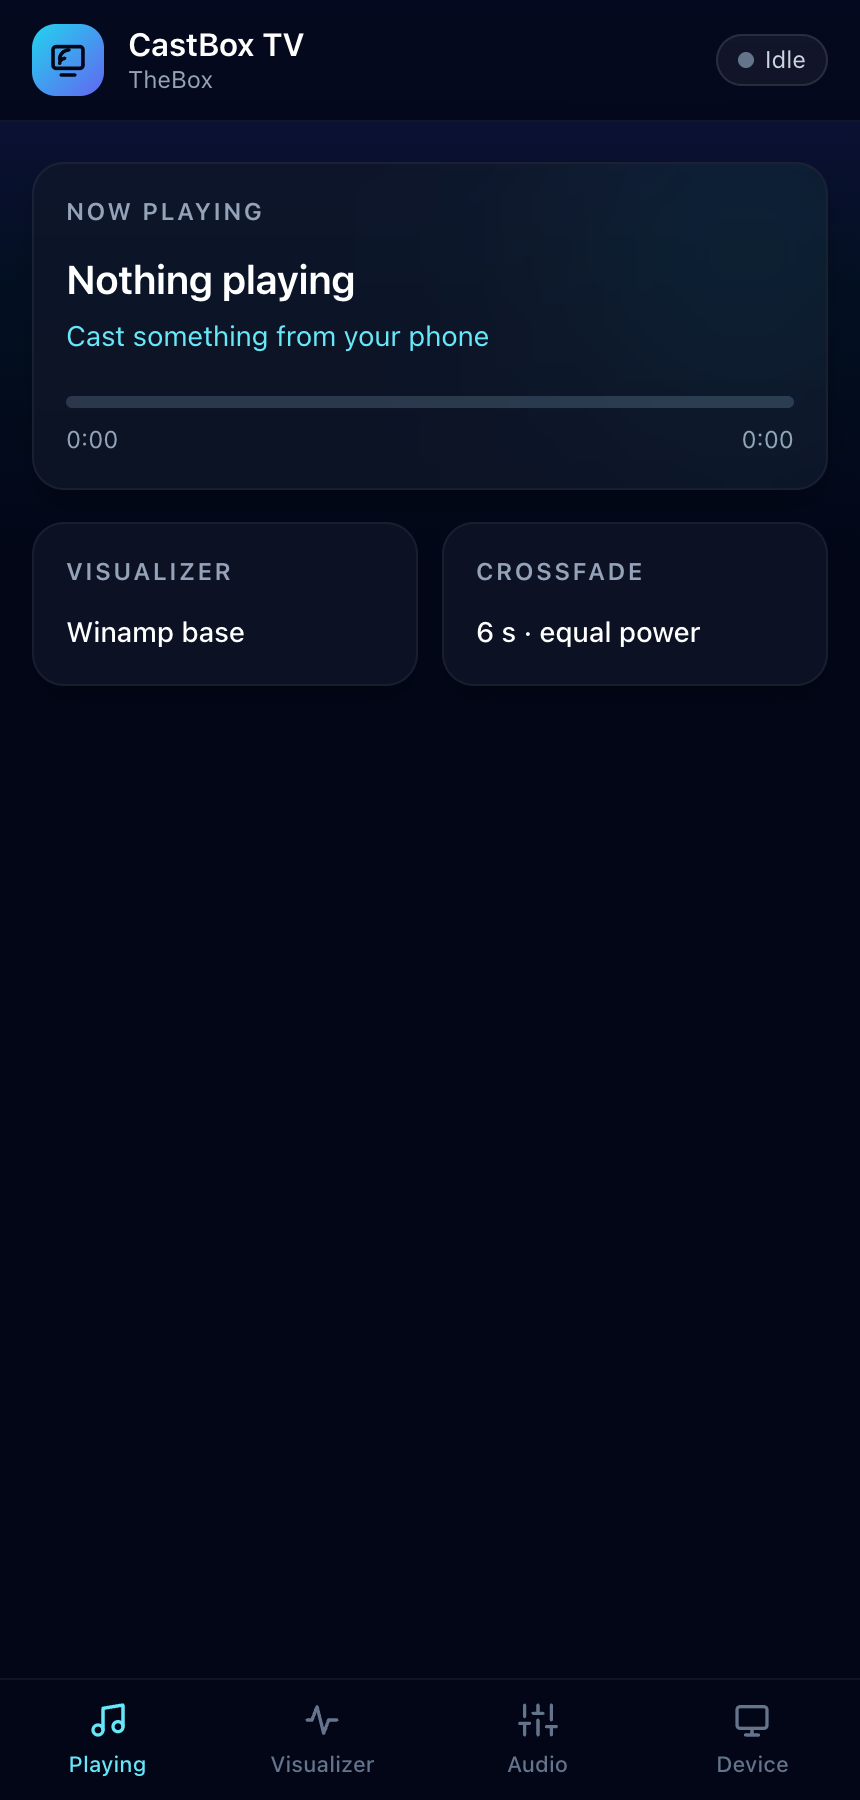
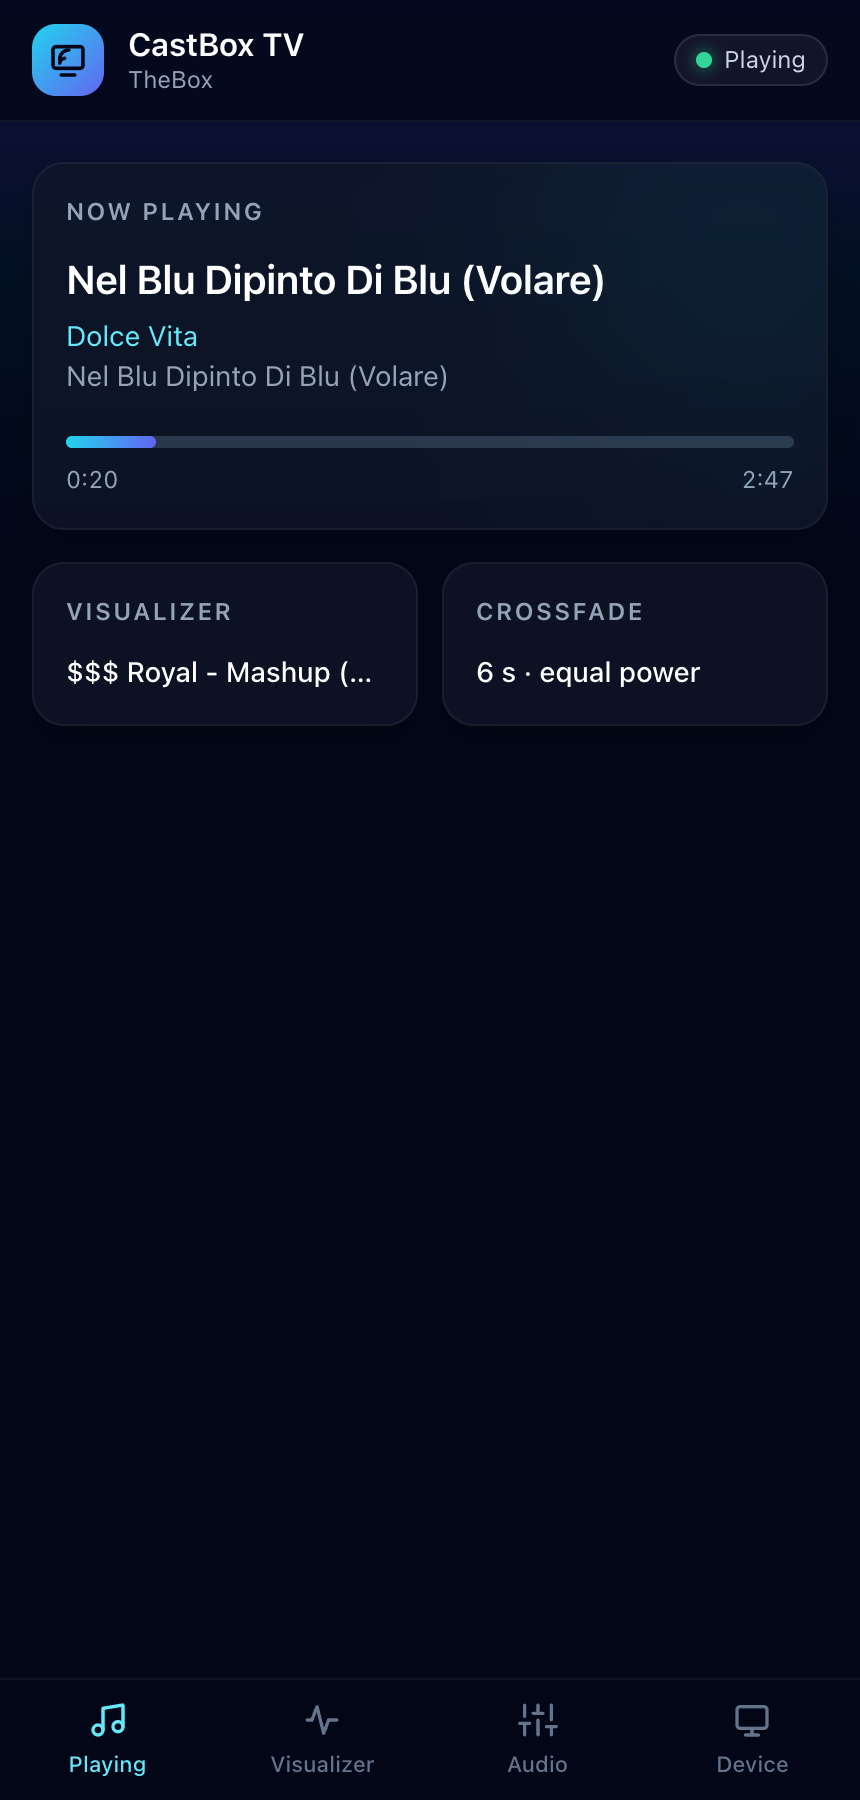
Docs: refresh web interface screenshots and show the pack dropdown

diff --git a/README.md b/README.md
@@ -43,10 +43,11 @@ Open `http://<tv-ip>:8092` on a phone connected to the same network. The page
 is bundled in the app and works without internet.
 
 <p align="center">
-  <img src="docs/screenshots/web-playing.png" alt="Playing" width="22%">
-  <img src="docs/screenshots/web-visualizer.png" alt="Visualizer" width="22%">
-  <img src="docs/screenshots/web-audio.png" alt="Audio" width="22%">
-  <img src="docs/screenshots/web-device.png" alt="Device" width="22%">
+  <img src="docs/screenshots/web-playing.png" alt="Playing" width="18%">
+  <img src="docs/screenshots/web-visualizer.png" alt="Visualizer" width="18%">
+  <img src="docs/screenshots/web-visualizer-packs.png" alt="Preset pack dropdown" width="18%">
+  <img src="docs/screenshots/web-audio.png" alt="Audio" width="18%">
+  <img src="docs/screenshots/web-device.png" alt="Device" width="18%">
 </p>
 
 - **Playing:** current track, progress, visualizer and crossfade summary.
